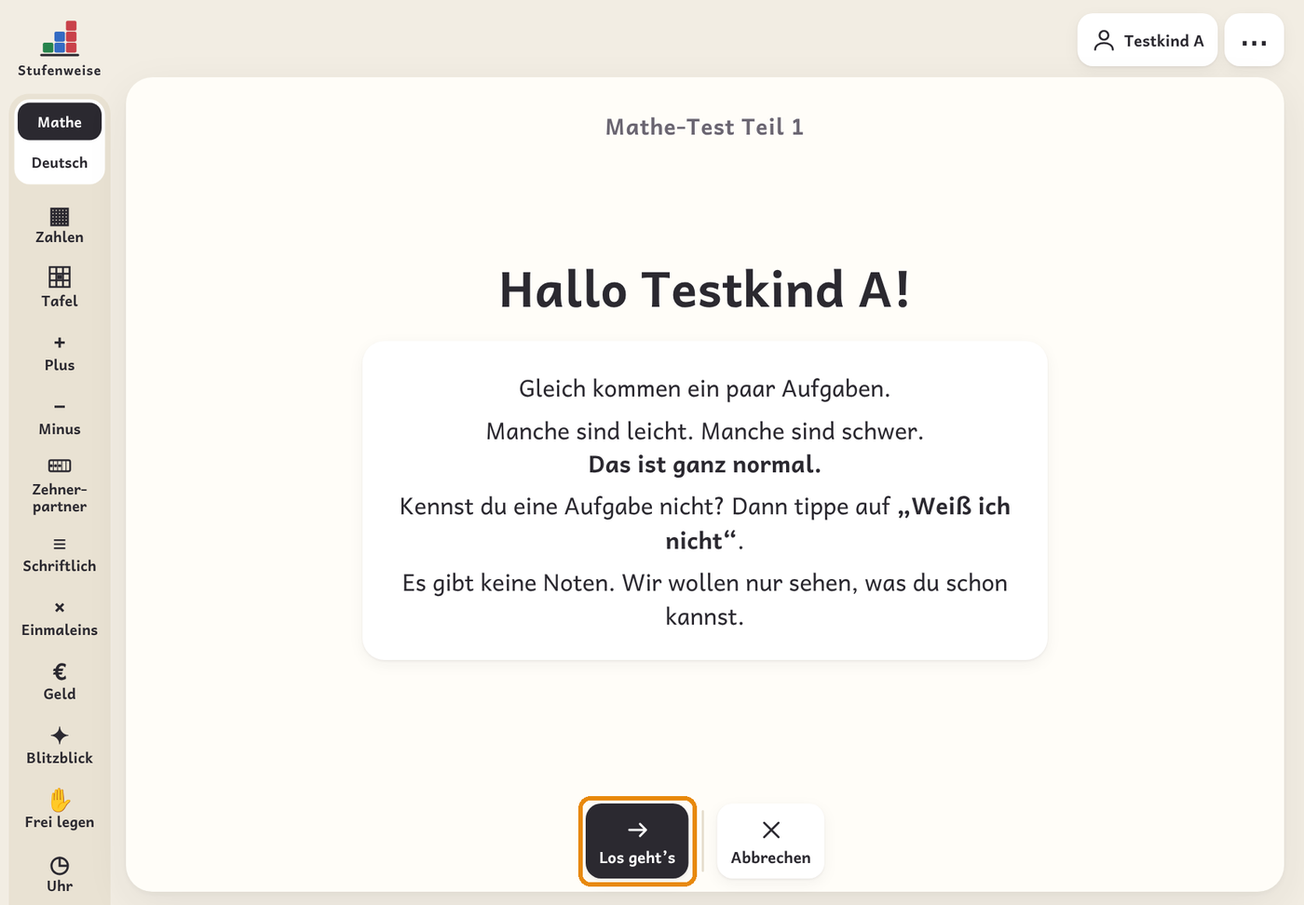
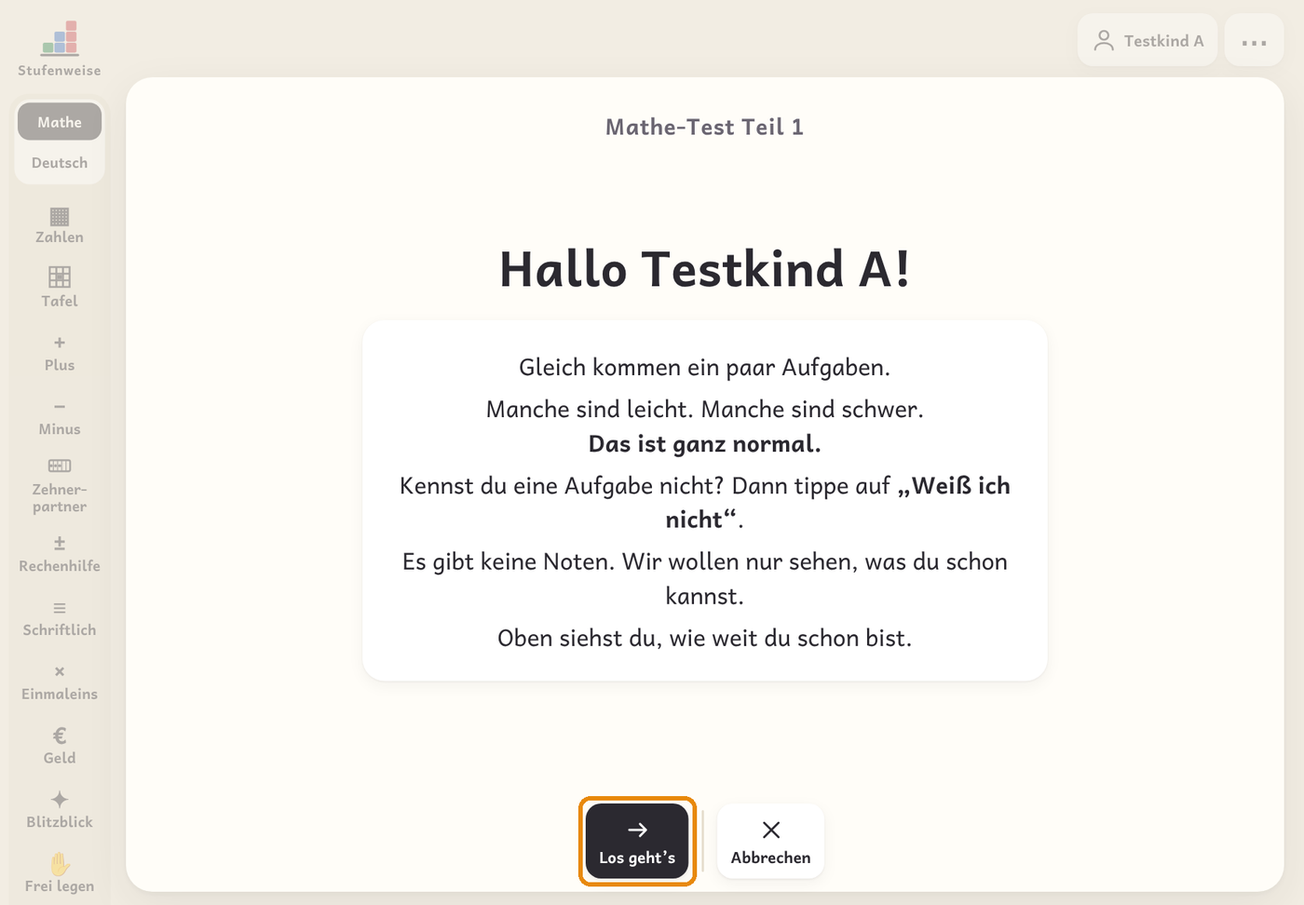
0.29.0: Basis-Test, Eingang „Testen“, Plus/Minus mit Rechenhilfe, Ähnlichkeit in Basis
Freigabe des Zweigs „entwicklung“ (Basis-Test in drei Teilen, Testen-Eingang,
Backlog A, B, C). Durchsicht vor der Freigabe: Rechenhilfe ohne Vorschlag
„Schwerer/Leichter“, Rechenhilfe endet beim Wechsel über die Startseite,
toter Code der alten Test-Knöpfe entfernt, Hilfe in der App aktualisiert,
Anleitungsbilder erneuert (Skript repariert). Alle 40 Tests grün.

Claude-Session: https://claude.ai/code/session_01EfzymwKeJDe7hEGcDraK42

diff --git a/index.html b/index.html
@@ -3529,6 +3529,7 @@ function adaptStep(mode, dir){
 }
 function adaptTrack(e){
   const k = adaptKey(e); if(!k) return;
+  if(app.calc && ['add', 'sub'].includes(e.mode)) return; /* Rechenhilfe: eigene Aufgaben, kein Vorschlag „Schwerer/Leichter“ */
   if(['add', 'sub'].includes(e.mode) && !app.calc && e.mode === app.mode && pmTrack(e)) return;
   const A = app.adapt; if(A.key !== k){ Object.assign(A, {key:k, ok:0, miss:0}); }
   if(e.ok){ A.ok++; A.miss = 0; } else { A.miss++; A.ok = 0; }
@@ -7125,7 +7126,7 @@ function wzGo(ds){
   settings.subject = subj; app.railGrp = null; leaveMode(); app.activeZone = null;
   if(ds.wzLvl){
     if(ds.wzLast){ settings.lastMath = ds.wzLast; ({clock:() => app.read.ulvl = ds.wzLvl, size:() => app.read.glvl = ds.wzLvl, board:() => app.read.hlvl = ds.wzLvl, tenpair:() => app.read.zlvl = ds.wzLvl})[ds.wzLast]?.(); }
-    Object.assign(app.read, {lvl: ds.wzLvl, item:null, streak:0, miss:0}); app.mode = 'read';
+    Object.assign(app.read, {lvl: ds.wzLvl, item:null, streak:0, miss:0}); pmSetCalc(false); app.mode = 'read';
   } else { pmSetCalc(!!ds.wzCalc); app.mode = ds.wzMode; settings.lastMath = app.mode; autoConf(app.mode); }
   saveSettings(); app.wz = null; render();
 }
@@ -9590,7 +9591,7 @@ document.addEventListener('change', e => { const c = e.target.closest('[data-sub
 document.addEventListener('change', e => { const s = e.target.closest('[data-guide-pid]'); if(!s) return; const p = data.profiles.find(x => x.id === s.dataset.guidePid); if(p){ p.guide = s.value || undefined; saveData(); render(); } });
 
 /* ---------- Rückmeldung (Testphase): Art, Schwere, Text + automatischer Kontext → E-Mail ---------- */
-const APP_VERSION = '0.28.5 · 17.11.2026';
+const APP_VERSION = '0.29.0 · 20.11.2026';
 /* Danke-Seite: Namen nur mit Einverständnis eintragen, z. B. 'Vorname Nachname (Schule)' */
 const THANKS = [];
 const FB_REPO = 'https://github.com/Steffinuss/stufenweise';
@@ -9730,7 +9731,6 @@ $('#dlg-profile').addEventListener('click', e => {
   if(del){ const id = del.dataset.del, p = data.profiles.find(x => x.id === id); if(p && del.dataset.sure){ data.profiles = data.profiles.filter(x => x.id !== id); delete data.log[id]; if(data.skips) delete data.skips[id]; if(data.errs) delete data.errs[id]; if(data.current === id) data.current = null; saveData(); renderProfiles(); render(); } else { del.dataset.sure = '1'; del.innerHTML = '<span style="display:inline;font-weight:700;color:var(--bad)">Sicher?</span>'; } return; }
   if(e.target.closest('#p-screen')){ $('#dlg-profile').close(); screenStart(); }
   if(e.target.closest('#p-unlock')){ requireTeacher(() => renderProfiles()); return; }
-  const tb = e.target.closest('[data-ptest]'); if(tb){ requireTeacher(() => { $('#dlg-profile').close(); diagStart(tb.dataset.ptest, false); }); return; }
 });
 $('#dlg-profile').addEventListener('submit', e => {
   e.preventDefault(); if(!teacherOn()) return; const n = $('#pname').value.trim(); if(!n) return;
@@ -9781,14 +9781,14 @@ $('#help-content').innerHTML = [
   ['chart','Die Stufen','Mathe: Zahlenräume 10, 20, 100, 1000 mit den Niveaus I–V (Fritz & Ricken, Krajewski), Stellenwert S1–S4 (Herzog, Ehlert & Fritz) Rechnen R1–R7 (Plus und Minus bis 10, 20, 100, 1000, Einmaleins), Zehnerpartner Z1–Z3 (Zahlen, die zusammen 10 ergeben, und Rechnen über die 10), Zeit U1–U6 (Uhr und Kalender) und Hundertertafel H1–H7 (bis zum Tausenderbuch). Der Mathe-Test hat zwei Teile: Teil 1 Zahlen und Rechnen, Teil 2 Uhr, Größen und Hundertertafel – so bleibt jede Sitzung kurz. Deutsch: Lesen L1–L9 und Schreiben W1–W6 nach dem Bildungsplan GENT. Dazu Größen G1–G4 (Messen, cm/m/km, g/kg, Einkaufen). Jede Stufe hat einen „Ich kann“-Satz in einfacher Sprache.'],
   ['h','Für Schüler*innen'],
   ['home','Startseite','Das Stufen-Zeichen links oben führt zur Startseite. Dort tippst du deinen Namen an. Unter „Heute für dich“ stehen deine Übungen. Die „Startrunde“ sind 3 kurze Aufgaben zum Aufwärmen. „Meine Lernlandkarte“ zeigt, was du schon kannst (✓) und woran du gerade arbeitest (★).'],
-  ['edit','Mathe','Links wählst du: Zahlen legen, Hundertertafel, Plus, Minus, Zehnerpartner, Schriftlich, Einmaleins, Geld, Blitzblick, Frei legen, Uhr und Größen. Nach deinem Test stellt sich jede Übung selbst passend ein (Zahlenraum, Zehnerübergang). Beim Blitzblick wird die Zeit kürzer, wenn es gut klappt, und länger, wenn es schwer ist. Material kannst du antippen oder ziehen. Bei einem Fehler bekommst du einen Tipp, zum Beispiel: „Zehner und Einer sind vertauscht.“'],
+  ['edit','Mathe','Links wählst du: Zahlen legen, Hundertertafel, Plus, Minus, Zehnerpartner, Rechenhilfe, Schriftlich, Einmaleins, Geld, Blitzblick, Frei legen, Uhr und Größen. Nach deinem Test stellt sich jede Übung selbst passend ein (Zahlenraum, Zehnerübergang). Bei Plus und Minus gibt es Zufallsaufgaben; die Darstellung kommt von selbst nacheinander (Material → Zwanzigerfeld oder Hundertertafel → Zahlenstrahl, nach 8 richtigen Aufgaben die nächste). In der Rechenhilfe gibt das Kind eine eigene Aufgabe ein und wählt die Darstellung frei. Beim Blitzblick wird die Zeit kürzer, wenn es gut klappt, und länger, wenn es schwer ist. Material kannst du antippen oder ziehen. Bei einem Fehler bekommst du einen Tipp, zum Beispiel: „Zehner und Einer sind vertauscht.“'],
   ['target','Zahlenstrahl vergrößern','Tippe auf einen Sprung (zum Beispiel +7), dann wird er groß. Noch einmal tippen: zurück. Mit + und − vergrößerst und verkleinerst du. Mit zwei Fingern kannst du auch zoomen und mit einem Finger verschieben. Unten zeigt der kleine Zahlenstrahl, wo du gerade bist – tippe dort, um hinzuspringen.'],
   ['line','Deutsch','Lesen in 9 Stufen (Bilder, Signalwörter, Buchstaben, Wörter, genau lesen, Sätze, kurze Texte, Pläne und Tabellen, lange Texte) und Schreiben in 6 Stufen (abschreiben, Anlaute, kurze und lange Wörter, Merkstellen, Sätze). Unter „Meine Wörter“ übst du Wörter, die deine Lehrkraft eingetragen hat: anschauen, merken, abdecken, auswendig schreiben, vergleichen. „Silben färben“ hilft bei langen Wörtern. Beim Schreiben gibt es Buchstaben auf dem Bildschirm.'],
-  ['blocks','Basis','Grundlagen vor dem Zählen und Lesen: Gleiches finden, Was passt nicht?, Sortieren, Eins zu eins zuordnen, Mengen vergleichen, Der Größe nach, Muster, Auf einen Blick, Formen, Richtung und Spiegelung, Von links nach rechts. Oben hellblau steht die Vorgabe oder das Ziel, unten beige der Vorrat: Die Kinder schieben Dinge an ihren Platz (oder tippen das Ding und dann den Platz an). Jede Aufgabenart wird zuerst vorgemacht (orange Rahmen, „Schau zu“, eine Hand zeigt es); das Kind bleibt bei ihr, bis es sie sicher kann (erst wenige, dann mehr Bilder). Die Lehrkraft erklärt den Auftrag. Kinder sehen „Basis“ nur, wenn es in den Einstellungen unter „Kinder &amp; Daten“ für sie eingeschaltet ist. Dazu gibt es Arbeitsblätter und Legeblätter.'],
+  ['blocks','Basis','Grundlagen vor dem Zählen und Lesen: Gleiches finden, Was passt nicht?, Sortieren, Eins zu eins zuordnen, Mengen vergleichen, Der Größe nach, Muster, Auf einen Blick, Formen, Richtung und Spiegelung, Von links nach rechts. Oben hellblau steht die Vorgabe oder das Ziel, unten beige der Vorrat: Die Kinder schieben Dinge an ihren Platz (oder tippen das Ding und dann den Platz an). Jede Aufgabenart wird zuerst vorgemacht (orange Rahmen, „Schau zu“, eine Hand zeigt es); das Kind bleibt bei ihr, bis es sie sicher kann (erst wenige, dann mehr Bilder). Die Lehrkraft erklärt den Auftrag. Kinder sehen „Basis“ nur, wenn es für sie eingeschaltet ist (unter „Wer übt?“ oder in den Einstellungen unter „Kinder &amp; Daten“) oder der Basis-Test eine Förderzone ergeben hat. Manche Aufgabenarten werden zusätzlich feiner: erst deutlich verschiedene Dinge, dann ähnliche, dann sehr ähnliche. Dazu gibt es Arbeitsblätter und Legeblätter.'],
   ['next','Schwerer oder leichter','Wenn du 5 Aufgaben hintereinander richtig hast, schlägt Stufenweise die nächste Stufe vor. Nach 3 Fehlern gibt es eine leichtere Stufe. Du entscheidest selbst.'],
   ['h','Für die Lehrkraft'],
   ['lock','Lehrkraft-PIN','In den Einstellungen eine 4-stellige PIN festlegen. Dann sind Lernstand, Tests, Arbeitsblätter, Berichte, Einstellungen und das Anlegen von Kindern geschützt. Nach der Eingabe bleibt der Bereich 20 Minuten offen.'],
-  ['target','Tests','„Wer übt?“ → Mathe-, Lese- oder Schreib-Test. Die Tests sind adaptiv: gelöst → schwerer, nicht gelöst → leichter; in Mathe auch mit Sprüngen zwischen den Zahlenräumen. Meist 6–25 Aufgaben. Die Kinder sehen eine ermutigende Einleitung, während des Tests oben die Abschnitte und einen Balken, der nur vorwärts läuft (ohne richtig/falsch), und am Ende keine Ergebnisse. Während des Tests sind Leiste und Menü gesperrt; Beenden mit zweimal „Abbrechen“. Die Arbeitsaufträge sind kurz; Kinder, die sie noch nicht lesen können, brauchen beim ersten Mal eine kurze Erklärung.'],
+  ['target','Tests','Startseite → „Testen“ → Kind → Test (mit Lehrkraft-PIN). Dort steht je Fach, welche Teile schon gemacht sind; der Basis-Test erscheint, wenn Basis beim Kind eingeschaltet ist oder Mathe „Zahlen bis 10, Stufe I“ bzw. Lesen L1 noch nicht erreicht ist. Mathe-, Lese- und Schreib-Test sind adaptiv: gelöst → schwerer, nicht gelöst → leichter; in Mathe auch mit Sprüngen zwischen den Zahlenräumen. Meist 6–25 Aufgaben. Der Basis-Test hat drei kurze Teile; jede Aufgabenart wird zuerst vorgemacht, dann löst das Kind zwei bis drei Aufgaben, bei Erfolg noch die schwerere Form. Die Kinder sehen eine ermutigende Einleitung, während des Tests oben die Abschnitte und einen Balken, der nur vorwärts läuft (ohne richtig/falsch), und am Ende keine Ergebnisse. Während des Tests sind Leiste und Menü gesperrt; Beenden mit zweimal „Abbrechen“. Die Arbeitsaufträge sind kurz; Kinder, die sie noch nicht lesen können, brauchen beim ersten Mal eine kurze Erklärung.'],
   ['chart','Lernstand','Kompetenzmatrix je Fach (antippen ändert eine Einstufung), Förderzone mit Begründung und Beobachtungen, Lernangebot direkt starten, der Weg am Material (Handeln, Bild, Zahl) mit Legeblatt, Ideen für den Alltag, ILEB-Formulierungen, Verlauf, typische Fehler beim Üben. „Ganze Klasse“ zeigt alle Förderzonen und die letzte Startrunde, schlägt Fördergruppen vor und speichert alles als Tabelle für Excel oder Numbers.'],
   ['print','Arbeitsblätter und Berichte','Das Drucker-Symbol oben öffnet den Arbeitsblatt-Generator (Mathe mit Material, Uhr, Lesen, Schreiben – passend zur Förderzone oder frei, mit Lösungsblatt). Wählbar sind unter anderem „Große Aufgaben“ und bei Mathe „Materialbilder: 1. Aufgabe vorgegeben, dann selbst zeichnen“; die Einstellungen bleiben auf diesem Gerät gespeichert. Mit „Ins Arbeitsheft“ sammelst du mehrere Blätter zu einem Heft: Titelblatt mit Namen und Inhaltsverzeichnis, Seitenzahlen, ohne Namenszeilen und ohne Lösungen. Unter „Basis“ stehen Blätter für Kinder, die noch nicht sicher zählen: Gleiches finden, Sortieren, eins zu eins zuordnen, mehr und weniger, Größen, Muster, Formen, Richtungen; die erste Aufgabe jeder Art ist vorgemacht, auf Wunsch mit Mustern statt Farben für den Schwarz-Weiß-Drucker. Gewählt wird in drei Schritten: Fach, Bereich, Blatt; „Zuletzt benutzt“ hilft beim Wiederfinden. Beim Bereich „Legeblätter“ jedes Fachs gibt es Blätter in Originalgröße zum Drauflegen: Zehner- und Zwanzigerfeld, Zahlenstrahl, Hunderterfeld, Stellentafel, Zifferblatt, Preise, Sortierunterlage, Zuordnungsleiste, Musterstreifen, Anlaute, Wörter, Silben und Buchstabenkarten. Im Lernstand druckt „Bericht drucken“ einen Lernstandsbericht für die ILEB, eine Elterninfo in einfacher Sprache oder die Lernlandkarte zum Ankreuzen im Schülergespräch.'],
   ['target','Geführte Oberfläche','Nach dem Test sieht jedes Kind nur seine Bereiche und Stufen (★ = Förderzone). In den Einstellungen wählst du für alle oder für einzelne Kinder: nur die Förderzone, Förderzone und Geschafftes oder alles. Übt ein Kind 10 Aufgaben mit mindestens 9 richtig, bietet die App einen Kurztest an; klappt er, öffnet sich die nächste Stufe. „Alles zeigen“ unten in der Leiste blendet mit PIN alle Bereiche ein.'],

diff --git a/tests/anleitung_bilder.py b/tests/anleitung_bilder.py
@@ -33,8 +33,14 @@ async def main():
         await pg.fill('#pname', 'Testkind A')
         await shot('03_kind', hl='#padd')
         await pg.click('#padd button[type=submit]'); await pg.wait_for_timeout(300)
-        await shot('04_tests', hl='[data-ptest="M1"]')
-        await pg.click('[data-ptest="M1"]'); await pg.wait_for_timeout(300)
+        await pg.click('#dlg-profile [data-close]'); await pg.wait_for_timeout(200)
+        # Testen: Startseite → Testen → Kind → Test (seit 0.29.0 ein eigener Eingang)
+        await pg.click('#btn-home'); await pg.wait_for_timeout(300)
+        if await pg.locator('[data-ctx-reset]').count(): await pg.click('[data-ctx-reset]'); await pg.wait_for_timeout(300)
+        await pg.click('[data-ctx-test]'); await pg.wait_for_timeout(300)
+        await pg.click('[data-home-pick]'); await pg.wait_for_timeout(300)
+        await shot('04_tests', hl='[data-tstart="M1"]')
+        await pg.click('[data-tstart="M1"]'); await pg.wait_for_timeout(300)
         await shot('05_intro', hl='#d-start')
         await pg.click('#d-start')
         skill = math_skill({10:5,20:3,100:0,1000:0},0,2,2)
@@ -49,11 +55,15 @@ async def main():
         await pg.click('#d-close'); await pg.wait_for_timeout(300)
         # Teil 2
         await pg.evaluate("diagStart('M2', false)"); await pg.wait_for_timeout(200); await pg.click('#d-start')
-        for step in range(80):
+        for step in range(200):
             if await pg.evaluate("app.diag.done"): break
-            info = await pg.evaluate("(()=>{const d=app.diag;return {key:d.key}})()")
-            await answer(pg, skill(info['key'])); await pg.wait_for_timeout(60)
+            info = await pg.evaluate("(()=>{const d=app.diag;return {key:d.key,type:d.items[d.idx].type}})()")
+            if info['type'] in ('input','flash','scatter','seq','clockset','write','sent','choice','pairs','line','money','build'): await answer(pg, skill(info['key']))
+            else: await pg.click('#d-skip')  # Aufgabenarten, die simlib nicht kennt (z. B. Hundertertafel): „Weiß ich nicht“
+            await pg.wait_for_timeout(60)
+        print('Teil 2 fertig:', await pg.evaluate("app.diag?.done"))
         await pg.click('#d-close'); await pg.wait_for_timeout(300)
+        print('Modus:', await pg.evaluate("app.mode"))
         # Lernstand
         await pg.click('#btn-more'); await pg.click('#btn-stats'); await pg.wait_for_timeout(500)
         await shot('08_lernstand')

diff --git a/CHANGELOG.md b/CHANGELOG.md
@@ -5,14 +5,29 @@ Versionen: Hauptversion.Nebenversion.Korrektur (Korrektur = Fehlerbehebung, Nebe
 
 ## Unveröffentlicht (Zweig `entwicklung`, Testversion)
 
-- **Basis-Test** in drei kurzen Teilen (V1–V4, V5–V8, O2–O4) mit Vormachen vor jeder neuen Aufgabenart, Blöcken für leichte und schwerere Form, Kompetenzmatrix mit zwei Bereichszeilen, Förderzone, ILEB-Vorschlägen, Elterninfo, Lernlandkarte und Hinweis im Lernstand bei Mathe „Zahlen bis 10, Stufe I“ / Lesen L1 (17.11.2026, Commit 329ab57). Wartet auf Freigabe, siehe `IN_PROGRESS.md`.
-- Testversion mit eigenem Speicher und rotem Hinweis; Skript `tests/testversion.sh`; Arbeitsweise mit zwei Zweigen in `docs/entwicklung.md` (17.11.2026).
-- **Basis-Arbeitsblätter:** Das Beispiel vor jeder Aufgabenart zeigt nur noch den ersten Schritt (eine Zeile, eine Linie, ein Kreis) statt der ganzen Aufgabe; Kuchengabel symmetrisch mit 3 Zinken (19.11.2026, Stefan).
-- **Plus und Minus aufgeteilt** (Backlog A): „Plus“/„Minus“ = Üben mit Zufallsaufgaben, Darstellung kommt von selbst nacheinander (bis 20 Material → Zwanzigerfeld → Zahlenstrahl, bis 100 Material → Hundertertafel → Zahlenstrahl, bis 1000 Material → Zahlenstrahl; nach 8 richtigen weiter, nach 3 Fehlern zurück); neue „Rechenhilfe“ für eigene Aufgaben mit freier Darstellung (19.11.2026).
-- **Basis: Schwerer durch Ähnlichkeit** (Backlog C): V1–V3 steigen in zwei Richtungen – mehr Bilder und deutlich → ähnlich → fein, mit denselben Dingen; 12 neue Bilder (Werkzeug-, Besteck- und Tassen-Varianten, Messer, Nagel, Schraubenschlüssel); Arbeitsblätter V1–V3 mit Auswahl „Ähnlichkeit“ (19.11.2026).
-- **Unterricht, Zwanzigerfeld: Zahl vorgeben** (Backlog B): Zahl eingeben oder „Zufallszahl“ legt die Menge ohne Rechnung; „Zahl verdecken“ wirkt auch auf die Anzahl allein, „?“ deckt auf, noch einmal antippen deckt zu (19.11.2026).
-- **Eingang „Testen“** auf der Startseite (Testen → Wer? → Welcher Test?), Basis-Häkchen pro Kind in „Wer übt?“, Zuordnen „Jedem eins“ frei hinlegen, Testversion mit eigener Kennung (19.11.2026, Rückmeldungen Stefan).
-- Dokumentation `BACKLOG.md`, `IN_PROGRESS.md`, `CHANGELOG.md` (19.11.2026).
+- noch nichts
+
+## 0.29.0 – 20.11.2026
+
+Neu:
+- **Basis-Test** in drei kurzen Teilen (V1–V4, V5–V8, O2–O4): Vormachen vor jeder neuen Aufgabenart, je Stufe leichte und schwerere Form, Kompetenzmatrix mit zwei Bereichszeilen, Förderzone, ILEB-Vorschläge, Elterninfo, Lernlandkarte; Hinweis im Lernstand, wenn Mathe „Zahlen bis 10, Stufe I“ oder Lesen L1 nicht erreicht ist.
+- **Eingang „Testen“** auf der Startseite (Testen → Wer? → Welcher Test?), nach Fach geordnet mit Stand und Wiederholung. Die Test-Knöpfe im Fenster „Wer übt?“ sind weg; dort gibt es das Häkchen Basis pro Kind.
+- **Plus und Minus aufgeteilt** (Backlog A): Üben mit Zufallsaufgaben, die Darstellung kommt von selbst nacheinander (bis 20 Material → Zwanzigerfeld → Zahlenstrahl, bis 100 Material → Hundertertafel → Zahlenstrahl, bis 1000 Material → Zahlenstrahl; nach 8 richtigen weiter, nach 3 Fehlern zurück); neue **Rechenhilfe** für eigene Aufgaben mit freier Darstellung, für alle Kinder.
+- **Basis: schwerer durch Ähnlichkeit** (Backlog C): V1–V3 steigen in zwei Richtungen, mehr Bilder und deutlich → ähnlich → fein; 12 neue Bilder; Arbeitsblätter V1–V3 mit Auswahl „Ähnlichkeit“.
+- **Unterricht, Zwanzigerfeld: Zahl vorgeben** (Backlog B): Zahl eingeben oder „Zufallszahl“; „Zahl verdecken“ wirkt auch auf die Anzahl allein.
+
+Geändert:
+- Basis „Jedem eins“: frei hinlegen mit mehr im Vorrat, damit man auch etwas falsch machen kann.
+- Basis-Arbeitsblätter: Das Beispiel zeigt nur den ersten Schritt; Kuchengabel mit 3 Zinken.
+- Texte V3 und V6 passen zu dem, was der Test prüft.
+- Anleitung und Hilfe in der App beschreiben Testen, Basis-Test, Rechenhilfe und Ähnlichkeit; Bildschirmfotos erneuert.
+
+Durchsicht vor der Freigabe (20.11.2026):
+- Rechenhilfe schlägt kein „Schwerer/Leichter“ mehr vor (sonst wurde aus der eigenen Aufgabe eine Zufallsaufgabe).
+- Rechenhilfe endet sauber, wenn man über die Startseite in eine andere Übung geht.
+- Toter Knopf-Code der alten Test-Knöpfe entfernt; `tests/anleitung_bilder.py` läuft wieder (über „Testen“).
+
+Für Entwickler*innen: Testversion mit eigenem Speicher (`TEST_BUILD`, Vorsatz `test:`) und Skript `tests/testversion.sh`; Arbeitsweise mit zwei Zweigen in `docs/entwicklung.md`; `BACKLOG.md`, `IN_PROGRESS.md`, `CHANGELOG.md`; neue Test-Haken in `docs/neues-fach.md`.
 
 ## 0.28.5 – 17.11.2026 (Release v0.28.5, eingefrorener Stand für Schulen)
 

diff --git a/IN_PROGRESS.md b/IN_PROGRESS.md
@@ -3,41 +3,6 @@
 Was gerade begonnen ist. Erledigtes wandert nach `CHANGELOG.md`, Geplantes steht in `BACKLOG.md`.
 Arbeitsweise mit zwei Zweigen: `docs/entwicklung.md`.
 
-Stand: 19.11.2026 abends
+Stand: 20.11.2026
 
-## Basis-Test (Basis, Schritt 4)
-
-| | |
-| --- | --- |
-| Zweig | `entwicklung`, Commit 329ab57 (gepusht) |
-| Testversion | steffinuss.github.io/stufenweise-test (Commit ceba845 im Repository `stufenweise-test`) |
-| Tests | `tests/basis_test.py` neu; `sh tests/run_all.sh lang` am 17.11.2026 komplett grün (38 Tests) |
-| Anleitung | `docs/anleitung.md` (Abschnitt „Basis-Test“), `docs/neues-fach.md` (neue Test-Haken) |
-| Status | **fertig gebaut, wartet auf Ausprobieren durch Stefan** |
-
-Umgesetzt:
-- Drei kurze Teile (Entscheidung Stefan, 17.11.2026): Teil 1 V1–V4, Teil 2 V5–V8, Teil 3 O2–O4.
-- Je Stufe Block a (leicht), nur wenn a klappt Block b (schwerer). Jeder Block: einmal vormachen (nicht gewertet, nichts antippbar), dann 2–3 Aufgaben derselben Art. Ergebnis: a und b → erreicht, nur a → teilweise, a nicht → nicht erreicht.
-- Kompetenzmatrix mit zwei Bereichszeilen (keine Treppe, nichts abgeleitet), Förderzone in der empfohlenen Reihenfolge, ILEB-Sätze, Elterninfo, Lernlandkarte, Kurztest, Re-Diagnose.
-- Hinweis im Lernstand, wenn Mathe „Zahlen bis 10, Stufe I“ oder Lesen L1 nicht erreicht ist; Basis wird bei offener Förderzone automatisch sichtbar.
-- Texte V3 und V6 an das angepasst, was der Test prüft (V3: Farbe bei gleichen bzw. verschiedenen Dingen; V6 b: vier Dinge ordnen).
-
-Rückmeldungen beim Ausprobieren (19.11.2026, eingearbeitet, Testversion cb56bb1):
-- Basis-Test war schwer zu finden → jetzt auch im Fenster „Wer übt?“ (eine Zeile je Fach: Basis, Mathe, Deutsch).
-- Bei „Zuordnen“ konnte man nichts falsch machen → „Jedem eins“ frei hinlegen: mehr im Vorrat, unter ein Bild passen auch mehrere, richtig nur mit genau einem je Bild (Üben und Test).
-- Basis-Häkchen pro Kind direkt im Fenster „Wer übt?“ neben „ohne Lesen“; die Basis-Test-Knöpfe dort erscheinen nur, wenn es beim gewählten Kind angehakt ist.
-- Tests haben einen eigenen Eingang: Startseite → **Testen** (Lehrkraft-PIN) → Kind → Test, nach Fach geordnet mit Stand („noch nicht gemacht“ / „gemacht · zuletzt …“) und Wiederholung. Die Test-Knöpfe in „Wer übt?“ sind wieder entfernt; dort bleibt nur das Häkchen Basis. Lernstand behält seine Knöpfe.
-- Testversion zeigte 0.28.5 → zeigt jetzt „0.29.0 · Testversion <Stand> · <Datum>“.
-
-Ebenfalls fertig in der Testversion (19.11.2026), Freigabe zusammen mit dem Basis-Test als 0.29.0:
-- Backlog A: Plus und Minus aufgeteilt in Üben (Darstellungen nacheinander) und Rechenhilfe.
-- Backlog B: Zwanzigerfeld im Unterricht – Zahl vorgeben und verdecken.
-- Backlog C: Basis V1–V3 schwerer durch Ähnlichkeit, 12 neue Bilder, Arbeitsblätter mit Auswahl „Ähnlichkeit“.
-
-Noch offen, bevor 0.29.0 freigegeben wird:
-1. Stefan probiert alles in der Testversion aus (am besten am Schul-iPad): Basis-Test, Testen-Eingang, Plus/Minus und Rechenhilfe, Zwanzigerfeld, Ähnlichkeit in Basis; dazu die geänderten Texte V3/V6.
-2. Rückmeldung einarbeiten, `sh tests/run_all.sh lang`, Testversion aktualisieren.
-3. Nach Stefans OK: `entwicklung` in `main` zusammenführen, Version 0.29.0, `CHANGELOG.md` ergänzen, Release anlegen (Stefan, GitHub-Oberfläche).
-4. Bildschirmfotos der Anleitung erneuern (das Bild `04_tests.png` ist entfernt, weil es die alten Test-Knöpfe zeigte) (dafür zuerst `tests/anleitung_bilder.py` reparieren, bricht seit 0.24.0 ab).
-
-Achtung: Backlog-Punkt C (Progression in Basis) betrifft dieselben Aufgabenarten, auf denen der Test aufbaut. Siehe `BACKLOG.md`.
+Gerade nichts in Arbeit. Basis-Test und Backlog A, B, C sind mit 0.29.0 freigegeben (siehe `CHANGELOG.md`).

diff --git a/BACKLOG.md b/BACKLOG.md
@@ -11,9 +11,9 @@ Stand: 19.11.2026
 | Nr. | Aufgabe | Größe | Warum an dieser Stelle |
 | --- | --- | --- | --- |
 | 0 | Basis-Test abschließen (`IN_PROGRESS.md`) | klein | fertig gebaut, braucht nur Ausprobieren und Freigabe |
-| 1 | ~~**C** Basis: bessere Progression~~ | mittel | erledigt 19.11.2026 (Testversion), siehe `CHANGELOG.md` |
-| 2 | ~~**B** Unterricht: Zahl im Zwanzigerfeld~~ | klein | erledigt 19.11.2026 (Testversion), siehe `CHANGELOG.md` |
-| 3 | ~~**A** Plus und Minus aufteilen~~ | groß | erledigt 19.11.2026 (Testversion), siehe `CHANGELOG.md` | 
+| 1 | ~~**C** Basis: bessere Progression~~ | mittel | freigegeben in 0.29.0 (20.11.2026), siehe `CHANGELOG.md` |
+| 2 | ~~**B** Unterricht: Zahl im Zwanzigerfeld~~ | klein | freigegeben in 0.29.0 (20.11.2026), siehe `CHANGELOG.md` |
+| 3 | ~~**A** Plus und Minus aufteilen~~ | groß | freigegeben in 0.29.0 (20.11.2026), siehe `CHANGELOG.md` | 
 
 Alternative: B zuerst als schneller Gewinn, während Stefan den Basis-Test ausprobiert.
 
@@ -21,7 +21,7 @@ Alternative: B zuerst als schneller Gewinn, während Stefan den Basis-Test auspr
 
 ## A: Modul Plus und Minus aufteilen
 
-**Status:** erledigt 19.11.2026 in `entwicklung` (Testversion), wartet auf Freigabe. Umsetzung: `app.calc` (Rechenhilfe) statt neuem Modus; `pmPractice`, `pmViews`, `pmMem`, `pmTrack` (Leiter je Kind, Rechenart und Zahlenraum); Rail-Eintrag und Startseiten-Kachel „Rechenhilfe“; Test `tests/plusminus_ueben.py`.
+**Status:** erledigt 19.11.2026, freigegeben in 0.29.0 (20.11.2026). Umsetzung: `app.calc` (Rechenhilfe) statt neuem Modus; `pmPractice`, `pmViews`, `pmMem`, `pmTrack` (Leiter je Kind, Rechenart und Zahlenraum); Rail-Eintrag und Startseiten-Kachel „Rechenhilfe“; Test `tests/plusminus_ueben.py`.
 **Entscheidungen Stefan (19.11.):** Darstellung wechselt automatisch wie bei Basis (nach 8 auf Anhieb richtigen die nächste, nach 3 Fehlern in Folge zurück; Lehrkraft kann oben jede wählen). Reihenfolge: bis 20 Material → Zwanzigerfeld → Zahlenstrahl; bis 100 Material → Hundertertafel → Zahlenstrahl; bis 1000 Material → Zahlenstrahl. Die Rechenhilfe sehen alle Kinder (eigener Eintrag bei Mathe).
 
 **Ausgangslage:** Im Schülermodus bietet Plus/Minus zu viele Wahlmöglichkeiten: Zufallsaufgabe, eigene Aufgabe eingeben, Darstellung wählen (Zahlenstrahl, Material, Hundertertafel). Das kann Schüler*innen mit Förderschwerpunkt geistige Entwicklung überfordern.
@@ -46,7 +46,7 @@ Alternative: B zuerst als schneller Gewinn, während Stefan den Basis-Test auspr
 
 ## B: Unterricht – Zahlen im Zwanzigerfeld darstellen
 
-**Status:** erledigt 19.11.2026 in `entwicklung` (Testversion), wartet auf Freigabe
+**Status:** erledigt 19.11.2026, freigegeben in 0.29.0 (20.11.2026)
 
 **Ausgangslage:** Das Zwanzigerfeld (Unterricht, Tafelwerkzeug) wird vor allem mit Rechnungen genutzt.
 
@@ -64,7 +64,7 @@ Alternative: B zuerst als schneller Gewinn, während Stefan den Basis-Test auspr
 
 ## C: Basis – bessere Progression der Schwierigkeitsstufen
 
-**Status:** erledigt 19.11.2026 in `entwicklung` (Testversion), wartet auf Freigabe.
+**Status:** erledigt 19.11.2026, freigegeben in 0.29.0 (20.11.2026).
 **Entscheidungen Stefan (19.11.):** Ähnlichkeit als Schritte innerhalb der Aufgabenart (nicht als eigene Arten); zuerst V1, V2, V3.
 **Umsetzung:** Aufgabenarten mit `{sim:true}` haben st 0…5 = deutlich/ähnlich/fein × wenige/mehr Bilder (`bzSim`), „Nächste Aufgabe“ nach 12. Neue Bilder: Messer, Nagel, Schraubenschlüssel und Varianten (großer Hammer, Klauenhammer, Kreuz- und kurzer Schraubenzieher, Ringschlüssel, Teelöffel, Kochlöffel, Kuchengabel, Becher); Untergruppen `B_SUB`, Familien `B_FAM`; Varianten nur bei „fein“. Arbeitsblätter V1–V3 mit Auswahl „Ähnlichkeit“. Basis-Test unverändert (leichte Form = deutlich).
 

diff --git a/docs/anleitung.md b/docs/anleitung.md
@@ -46,6 +46,8 @@ Das neue Kind ist jetzt ausgewählt (dunkel hinterlegt).
 - **Deutsch:** Lese-Test, Schreib-Test
 - **Wiederholung:** testet nur die offenen Stufen eines Tests noch einmal; „empfohlen“, wenn seit dem letzten Test viel geübt wurde
 
+![Testauswahl für ein Kind: Mathe Teil 1 und 2, Lese- und Schreib-Test](bilder/04_tests.png)
+
 Tipp auf den Test, den das Kind jetzt machen soll. Mach die Teile am besten an verschiedenen Tagen. Nach dem Test kommst du wieder zur Testauswahl; mit „Anderes Kind“ geht es mit dem nächsten Kind weiter. Im Lernstand eines Kindes kannst du Tests ebenfalls starten, direkt beim jeweiligen Fach.
 
 ### Themenwelt, Erkennungsbild und „ohne Lesen“
